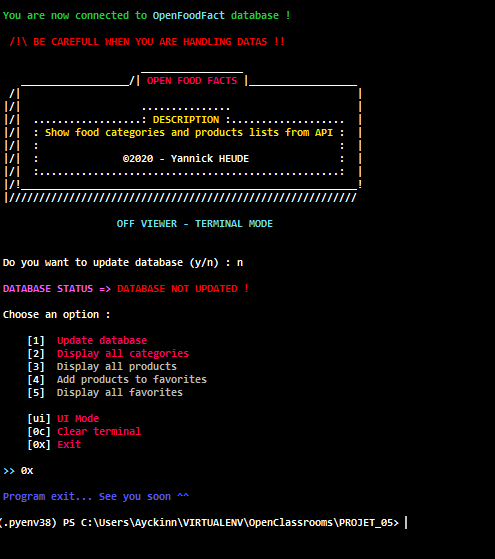
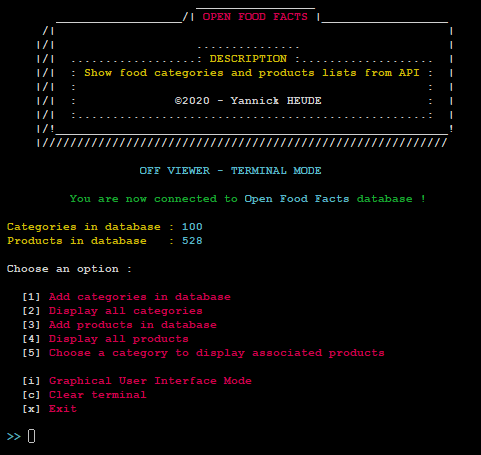
Update files

Changed region(s): [[0.0, 0.0, 0.9356, 0.9846], [0.9356, 0.0615, 0.9667, 0.2769]]

diff --git a/PROJET_05/README.md b/PROJET_05/README.md
@@ -1,7 +1,17 @@
 # OpenFoodFacts apps - OpenClassrooms : Project 5
 Create database and use public datas from OpenFoodFacts API
 
-### Usage
+## Features
+This program allows you to handle datas from the OpenFoodFacts API in a database that you have created.
+
+You can :
+- Add categories in database
+- Display all categories from database
+- Add products in database
+- Display all products from database
+- Display products by category
+
+## Usage
 Install virtual environment : 
 ```bash
 pip install virtualenv
@@ -35,3 +45,5 @@ To deactivate virtualenv, just enter :
 ```bash
 deactivate
 ```
+
+### Terminal mode
